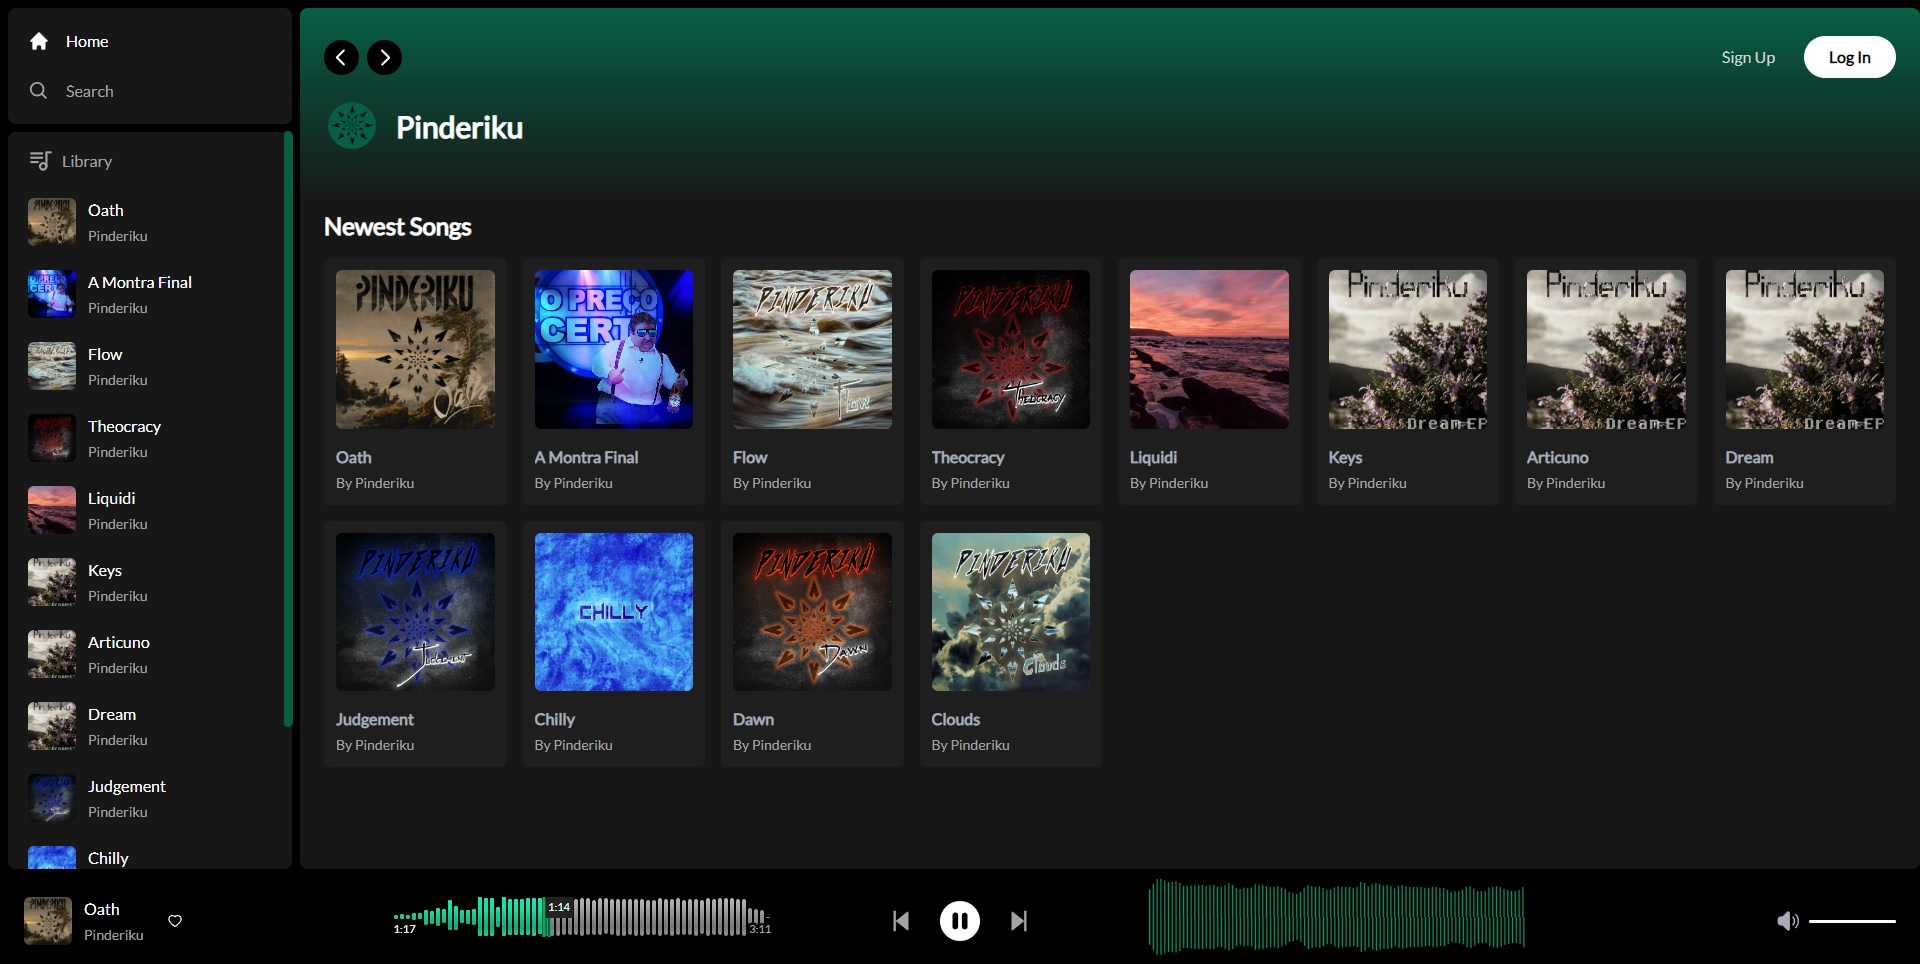
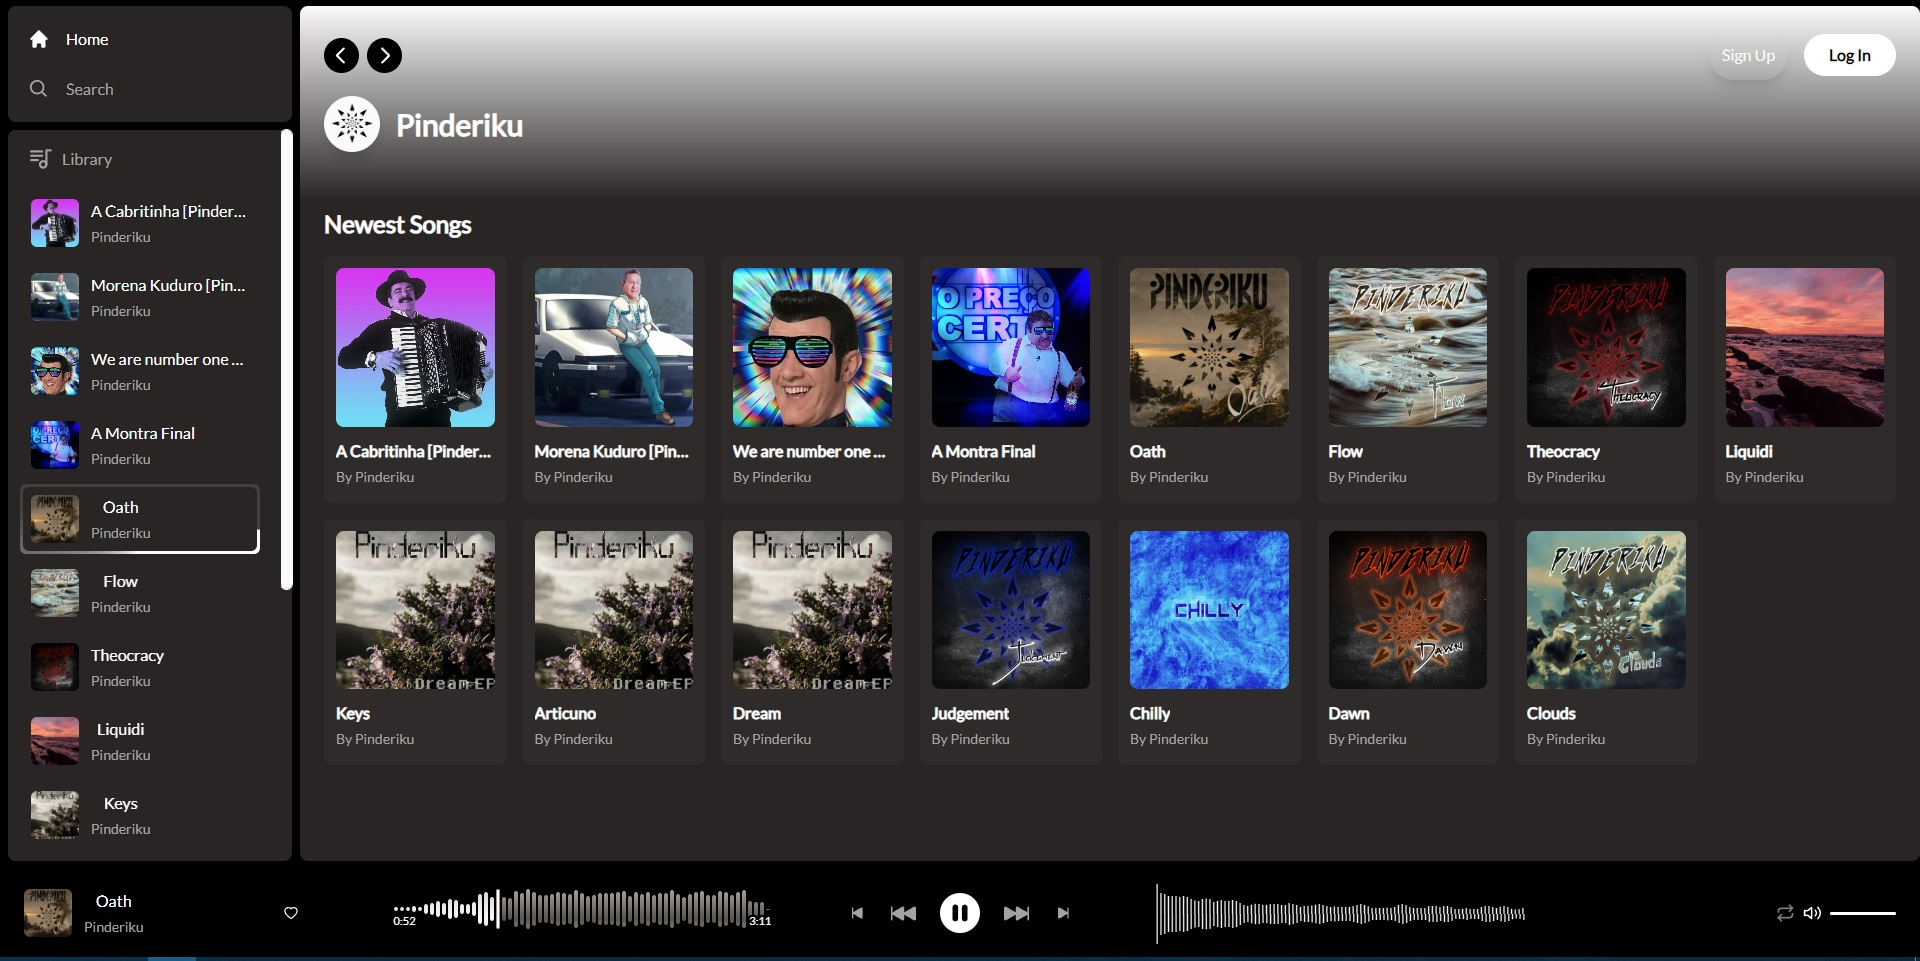
update project's description

diff --git a/README.md b/README.md
@@ -13,7 +13,7 @@
 
 [![Project Overview](/public/img/pinderiku-streamer-overview.jpg)](https://pinderiku.vercel.app/)
 
-*Live demo can be found [here](https://pinderiku.vercel.app/).*
+_Live demo can be found [here](https://pinderiku.vercel.app/)._
 
 I made this project because I wanted to host the songs for my hobby musical project on an independent platform. While doing it I managed to improve my skills in Typescript, and TailwindCSS, since I was not familiarized with these as much as I was with the other technologies used.
 
@@ -30,6 +30,10 @@ For this I used a package name [Wavesurfer.js](https://wavesurfer.xyz/), highly 
 ![Frequency Bars](/public/img/bars.gif)
 
 For these I used two animated HTML canvas, mirrored vertically, to show the frequencies of the playing song.
+
+- An animation on the song that is currently playing on the sidebar.
+
+![Song Playing Animation](/public/img/song-playing.gif)
 
 <!-- TODO:
     1. Describe my overall experience in a couple of sentences.
@@ -48,7 +52,17 @@ For these I used two animated HTML canvas, mirrored vertically, to show the freq
 
 ## Features
 
-At the moment the application only supports streaming of songs for one artist. Although it has support to sign in and register, these only allow the logged in user to like songs. I intend on expanding the app with more functionalities in the future, like the creation of playlists of each user.
+The app has all basic features of a song player. It can play, pause, skip songs, go forward/backwards on the current song, repeat functionality (repeat song, repeat all, no repeat) and volume control.
+
+There are also individual pages for each song with a waveform synchronized with the bottom player:
+
+![Individual Song Page](/public/img/individual-song-page.jpg)
+
+and if the user clicks on the song's image on the right side of the page's waveform, a modal pops up so the user can see the image more clearly:
+
+![Song Image Modal](/public/img/song-image.jpg)
+
+At the moment the application only supports streaming of songs for one artist. Although it has support to sign in and register, these only allow the logged in user to like songs. I intend on expanding the app with more functionalities in the future, like user created playlists.
 
 You can check what I'm currently working on for this project on [this Github project page](https://github.com/users/Whitthenstein/projects/5).
 
